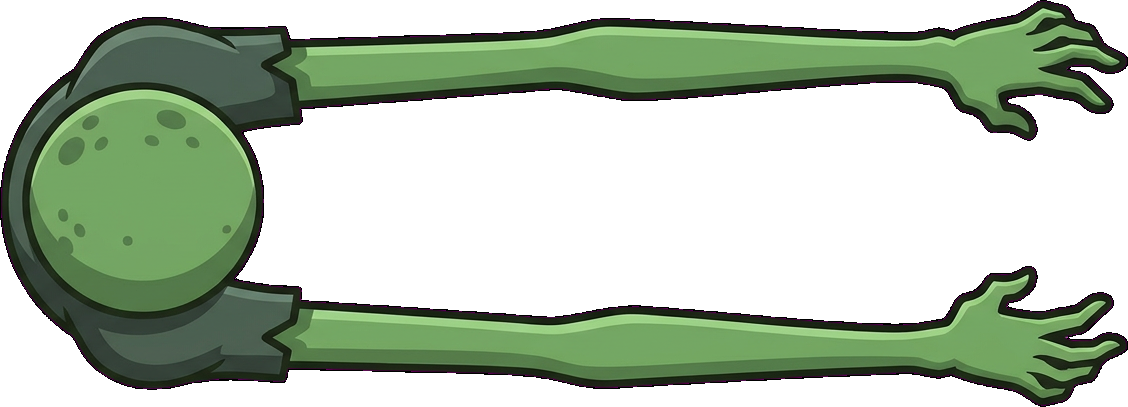
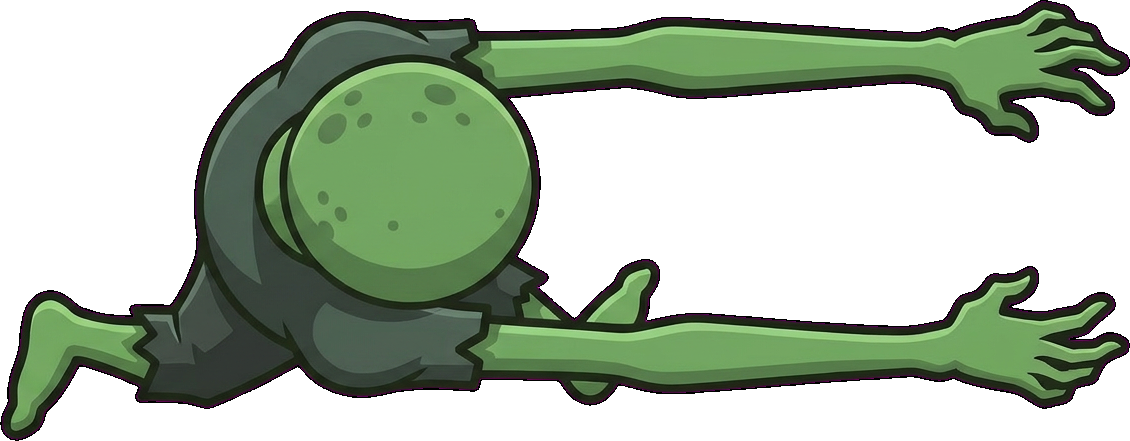
Runner with trailing leg, starburst muzzle flash, speck-proof keying

diff --git a/src/fx/textures.ts b/src/fx/textures.ts
@@ -177,28 +177,33 @@ export async function createTextures(
     .circle(0, 0, 2.2)
     .fill(0xffffff);
 
-  // Bold four-point star pointing along +x, anchored at its left middle by Effects.
+  // Bold starburst blasting along +x, anchored at its left middle by Effects: a long centre
+  // spike, two flanking spikes and short side spikes, in ink, orange, yellow and a white core.
   const flash = new Graphics();
-  const star = (len: number, side: number, back: number, color: number) => {
-    flash
-      .poly([
-        0, 0,
-        len * 0.32, -side * 0.28,
-        len * 0.42, -side,
-        len * 0.55, -side * 0.22,
-        len, 0,
-        len * 0.55, side * 0.22,
-        len * 0.42, side,
-        len * 0.32, side * 0.28,
-        0, 0,
-        -back, 0,
-      ])
-      .fill(color);
+  const BURST: [number, number][] = [
+    [0, 1],
+    [0.42, 0.62],
+    [-0.42, 0.62],
+    [1.05, 0.42],
+    [-1.05, 0.42],
+    [1.75, 0.26],
+    [-1.75, 0.26],
+  ];
+  const burst = (len: number, valley: number, color: number) => {
+    const spikes = [...BURST].sort((p, q) => p[0] - q[0]);
+    const points: number[] = [];
+    spikes.forEach(([angle, reach], i) => {
+      points.push(Math.cos(angle) * len * reach, Math.sin(angle) * len * reach);
+      const next = spikes[i + 1] ?? [spikes[0][0] + Math.PI * 2, 0];
+      const mid = (angle + next[0]) / 2;
+      points.push(Math.cos(mid) * valley, Math.sin(mid) * valley);
+    });
+    flash.poly(points).fill(color);
   };
-  star(46, 19, 2, INK);
-  star(42, 16, 0, 0xff7a1a);
-  star(33, 11, 0, 0xffd23a);
-  flash.ellipse(10, 0, 9, 5).fill(0xffffff);
+  burst(52, 9, INK);
+  burst(46, 7, 0xff7a1a);
+  burst(34, 5, 0xffd23a);
+  flash.circle(4, 0, 6).fill(0xffffff);
 
   // Soft-edged band for tracers: opaque core, fading rows above and below. Stretched to length.
   const tracer = new Graphics();

diff --git a/src/config/zombies.ts b/src/config/zombies.ts
@@ -79,9 +79,9 @@ export const ZOMBIES = {
     art: {
       key: "runner",
       corpses: [1, 2, 3],
-      // Skinny top-down art: head centred 16% across, about 8 px radius including outline.
-      radius: 8,
-      anchor: { x: 0.16, y: 0.5 },
+      // Skinny top-down art with a trailing leg: torso centred 36% across, about 9 px radius.
+      radius: 9,
+      anchor: { x: 0.36, y: 0.47 },
     },
     radius: 10,
     speed: 85,
